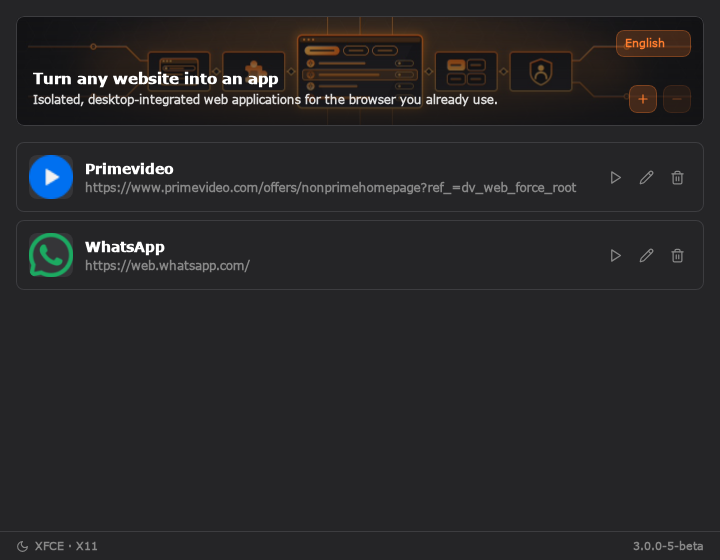
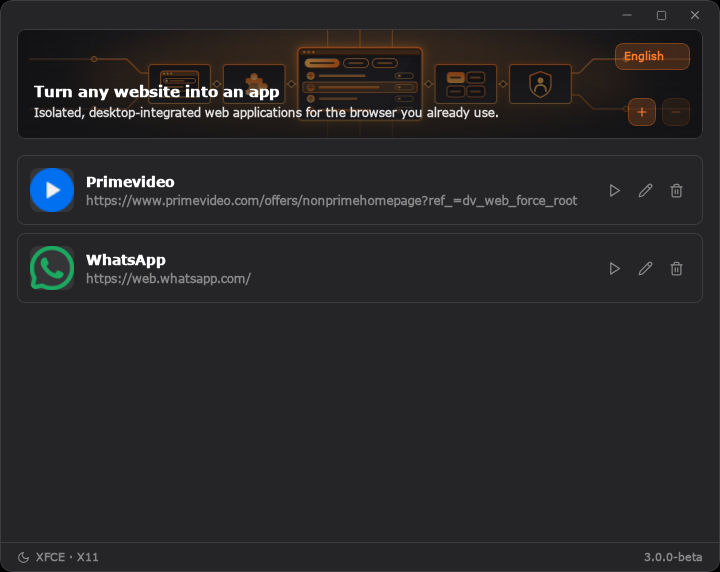
Frameless card window, new screenshots and bump to 3.0.0-6-beta

diff --git a/src/App.svelte b/src/App.svelte
@@ -1,6 +1,8 @@
 <script lang="ts">
   import { onMount } from "svelte";
   import { _, locale } from "svelte-i18n";
+  import WindowControls from "./components/WindowControls.svelte";
+  import { frameless, maximized } from "./lib/window";
   import { getVersion } from "@tauri-apps/api/app";
   import { getCurrentWindow } from "@tauri-apps/api/window";
   import { api } from "./lib/api";
@@ -24,6 +26,9 @@
 
   let envInfo = { desktopEnvironment: "unknown", displayProtocol: "unknown" };
   let appVersion = "";
+  // "3.0.0-1-beta" → "3.0.0-beta": the footer shows the app version, not the
+  // Debian package revision.
+  $: cleanVersion = appVersion.replace(/-\d+-/, "-");
 
   async function loadWebapps() {
     try {
@@ -214,14 +219,21 @@
   on:drop={handleDrop}
 />
 
-<div class="relative flex flex-col h-screen overflow-hidden">
+<div class="h-screen bg-dark {$frameless && !$maximized ? 'window-card' : ''}">
+<div class="relative flex flex-col h-full overflow-hidden">
   {#if isDraggingOver}
     <div class="absolute inset-0 z-40 border-2 border-dashed border-primary bg-primary/10 flex items-center justify-center pointer-events-none">
       <p class="text-[0.95rem] font-semibold text-primary">{$_("webapp.dropHint")}</p>
     </div>
   {/if}
 
-  <div class="p-4 pb-0 shrink-0">
+  {#if $frameless}
+    <div class="relative h-7 shrink-0" data-tauri-drag-region>
+      <div class="absolute right-2 top-[3px]"><WindowControls /></div>
+    </div>
+  {/if}
+
+  <div class="p-4 pb-0 shrink-0 {$frameless ? 'pt-0' : ''}" data-tauri-drag-region="deep">
     <div
       class="relative rounded border border-border overflow-hidden flex flex-col items-start justify-end p-4 min-h-[110px]"
       style="background: linear-gradient(rgba(20, 20, 22, 0.25), rgba(20, 20, 22, 0.82)), url('/assets/hero/webapp-manager-background.jpg'); background-size: cover; background-position: center;"
@@ -306,7 +318,7 @@
       on:click={() => (aboutOpen = true)}
       title={$_("sidebar.aboutTooltip")}
     >
-      {appVersion}
+      {cleanVersion}
     </button>
   </footer>
 </div>
@@ -346,3 +358,4 @@
 {#if aboutOpen}
   <AboutDialog onClose={() => (aboutOpen = false)} />
 {/if}
+</div>

diff --git a/src/components/WindowControls.svelte b/src/components/WindowControls.svelte
@@ -1,0 +1,40 @@
+<script lang="ts">
+  import { getCurrentWindow } from "@tauri-apps/api/window";
+  import { _ } from "svelte-i18n";
+  import { Minus, Square, Copy, X } from "lucide-svelte";
+  import { maximized } from "../lib/window";
+
+  // The buttons of the window when the system draws no frame: minimize, maximize
+  // or restore, and close, at the top right of the card. They are plain icons;
+  // the accent of the theme shows under the pointer, and red only on close.
+  const win = getCurrentWindow();
+
+  const button = "grid h-[22px] w-8 place-items-center rounded text-text-muted transition-colors";
+</script>
+
+<div class="flex items-center gap-0.5">
+  <button
+    class="{button} hover:bg-primary/15 hover:text-primary"
+    title={$_("app.window.minimize")}
+    aria-label={$_("app.window.minimize")}
+    on:click={() => win.minimize()}
+  >
+    <Minus size={14} />
+  </button>
+  <button
+    class="{button} hover:bg-primary/15 hover:text-primary"
+    title={$maximized ? $_("app.window.restore") : $_("app.window.maximize")}
+    aria-label={$maximized ? $_("app.window.restore") : $_("app.window.maximize")}
+    on:click={() => win.toggleMaximize()}
+  >
+    {#if $maximized}<Copy size={11} />{:else}<Square size={11} />{/if}
+  </button>
+  <button
+    class="{button} hover:bg-danger hover:text-white"
+    title={$_("app.window.close")}
+    aria-label={$_("app.window.close")}
+    on:click={() => win.close()}
+  >
+    <X size={14} />
+  </button>
+</div>

diff --git a/src/lib/window.ts b/src/lib/window.ts
@@ -1,0 +1,21 @@
+import { writable } from "svelte/store";
+import { getCurrentWindow } from "@tauri-apps/api/window";
+
+// Whether the system draws a frame around the window. With `decorations` off in
+// tauri.conf.json it does not: the window is one card with rounded corners (the
+// .window-card rule of global.css) and the program shows its own window buttons
+// (WindowControls.svelte). With it on, none of that shows.
+export const frameless = writable(false);
+export const maximized = writable(false);
+
+(async () => {
+  try {
+    const win = getCurrentWindow();
+    if (await win.isDecorated()) return;
+    frameless.set(true);
+    maximized.set(await win.isMaximized());
+    await win.onResized(async () => maximized.set(await win.isMaximized()));
+  } catch {
+    // Not inside Tauri (a browser while developing): leave the window as it is.
+  }
+})();

diff --git a/src/styles/global.css b/src/styles/global.css
@@ -37,12 +37,24 @@
 
   body {
     font-family: "Segoe UI", Tahoma, Geneva, Verdana, sans-serif;
-    background: theme("colors.dark");
+    /* The background is the one of the window card (App.svelte): the body stays
+       transparent so the corners of a window with no frame can be rounded. */
+    background: transparent;
     color: theme("colors.text.DEFAULT");
     height: 100vh;
     margin: 0;
     overflow: hidden;
   }
+}
+
+/*
+ * The window when the system draws no frame: one card with rounded corners.
+ * clip-path also cuts the dialogs (position: fixed), which overflow does not.
+ */
+.window-card {
+  border-radius: 12px;
+  border: 1px solid rgb(var(--color-border));
+  clip-path: inset(0 round 12px);
 }
 
 .content-scroll {

diff --git a/CHANGELOG.md b/CHANGELOG.md
@@ -2,6 +2,12 @@
 
 All notable changes to Soplos WebApp Manager are documented in this file.
 
+## [3.0.0-6-beta] - 2026-10-29
+
+### Changed
+
+- The window no longer has the frame of the system: it is a card with rounded corners and its own minimize, maximize and close buttons at the top right. It can be moved from the top strip, the banner and the side bar, and double click on the strip maximizes it. The rounded corners need a compositing manager running, as the one of Xfce, Plasma or GNOME.
+
 ## [3.0.0-5-beta] - 2026-10-28
 
 ### Changed

diff --git a/README.md b/README.md
@@ -1,6 +1,6 @@
 # Soplos WebApp Manager 3.0
 
-![Version](https://img.shields.io/badge/version-3.0.0--5--beta-blue)
+![Version](https://img.shields.io/badge/version-3.0.0--6--beta-blue)
 ![License](https://img.shields.io/badge/license-GPL--3.0--or--later-green)
 ![Platform](https://img.shields.io/badge/platform-Linux-lightgrey)
 ![Tauri](https://img.shields.io/badge/Tauri-2-orange)
